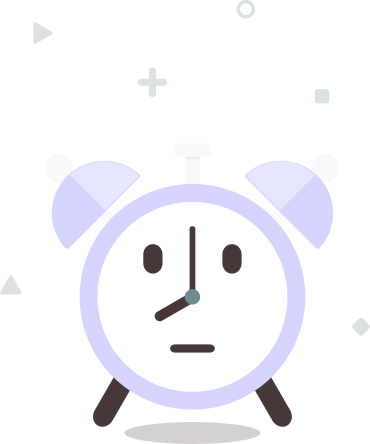
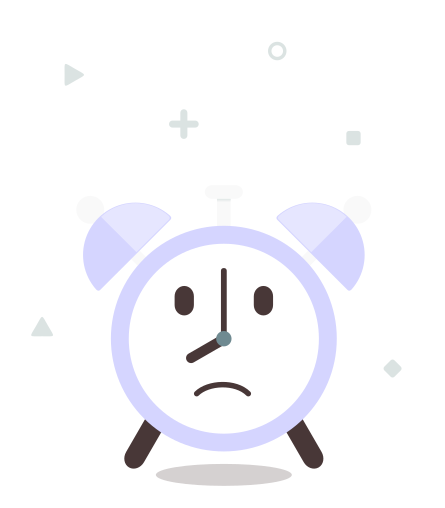
:art: empty state prayertime data

diff --git a/src/components/DatePicker/index.js b/src/components/DatePicker/index.js
@@ -96,6 +96,7 @@ class DatePicker extends Component {
             minDate={new Date(this.getMinDate())}
             maxDate={new Date(this.getMaxDate())}
             onChange={this.handleChange}
+            rangeColors={['#3eafff', '#3eafff']}
           />
         </DialogContent>
         <DialogActions
@@ -103,8 +104,17 @@ class DatePicker extends Component {
             root: classes.action
           }}
         >
-          <Button onClick={this.handleClick} color="primary">
-            {type !== null && type.toUpperCase()}
+          <Button
+            onClick={this.handleClick}
+            size="small"
+            color="primary"
+            variant="contained"
+            classes={{
+              root: classes.button,
+              label: classes.buttonLabel
+            }}
+          >
+            {type !== null && type}
           </Button>
         </DialogActions>
       </Dialog>

diff --git a/src/containers/Prayers/index.js b/src/containers/Prayers/index.js
@@ -12,7 +12,7 @@ import PrayerInfo from '../../components/PrayerInfo/'
 import PrayerTime from '../../contexts/PrayerTime'
 import EmptyState from '../../components/EmptyState/'
 
-import empty from '../../assets/empty-state/prayer.png'
+import empty from '../../assets/empty-state/calendar.png'
 import styles from './styles'
 
 class Prayers extends Component {
@@ -98,7 +98,12 @@ class Prayers extends Component {
             onClick={this.openMenu}
             className={classes.icon}
           >
-            <MoreHorizIcon />
+            <MoreHorizIcon
+              color="primary"
+              classes={{
+                colorPrimary: classes.menuIcon
+              }}
+            />
           </IconButton>
         </div>
         <Menu

diff --git a/src/components/PrayerList/index.js b/src/components/PrayerList/index.js
@@ -53,7 +53,7 @@ class PrayerList extends Component {
               {prayer.length === 0 && (
                 <EmptyState
                   img={empty}
-                  message="There is no prayer time"
+                  message="Empty time for today"
                   handleClick={this.getPrayerTime}
                   action={loading ? <CircularProgress className={classes.loader} /> : 'Update'}
                 />

diff --git a/src/components/DatePicker/styles.js b/src/components/DatePicker/styles.js
@@ -20,4 +20,10 @@ export default theme => ({
     justifyContent: 'center',
     marginBottom: theme.spacing.unit*2
   },
+  button: {
+    backgroundColor: '#3eafff !important',
+  },
+  buttonLabel: {
+    textTransform: 'capitalize !important'
+  }
 })

diff --git a/src/containers/Prayers/styles.js b/src/containers/Prayers/styles.js
@@ -7,6 +7,9 @@ export default theme => ({
     padding: '0px 20px',
     paddingBottom: 20 + 48 + navbarHeight
   },
+  menuIcon: {
+    color: 'rgba(0, 0, 0, 0.54)'
+  },
   dates: {
     padding: '15px 10px',
     margin: 'unset',

diff --git a/src/components/Menu/styles.js b/src/components/Menu/styles.js
@@ -1,6 +1,7 @@
 export default theme => ({
   menu: {
-    fontSize: '0.9rem'
+    fontSize: '0.9rem',
+    color: 'rgba(0, 0, 0, 0.54)',
   },
   icon: {
     fontSize: theme.spacing.unit * 2 + 2,
